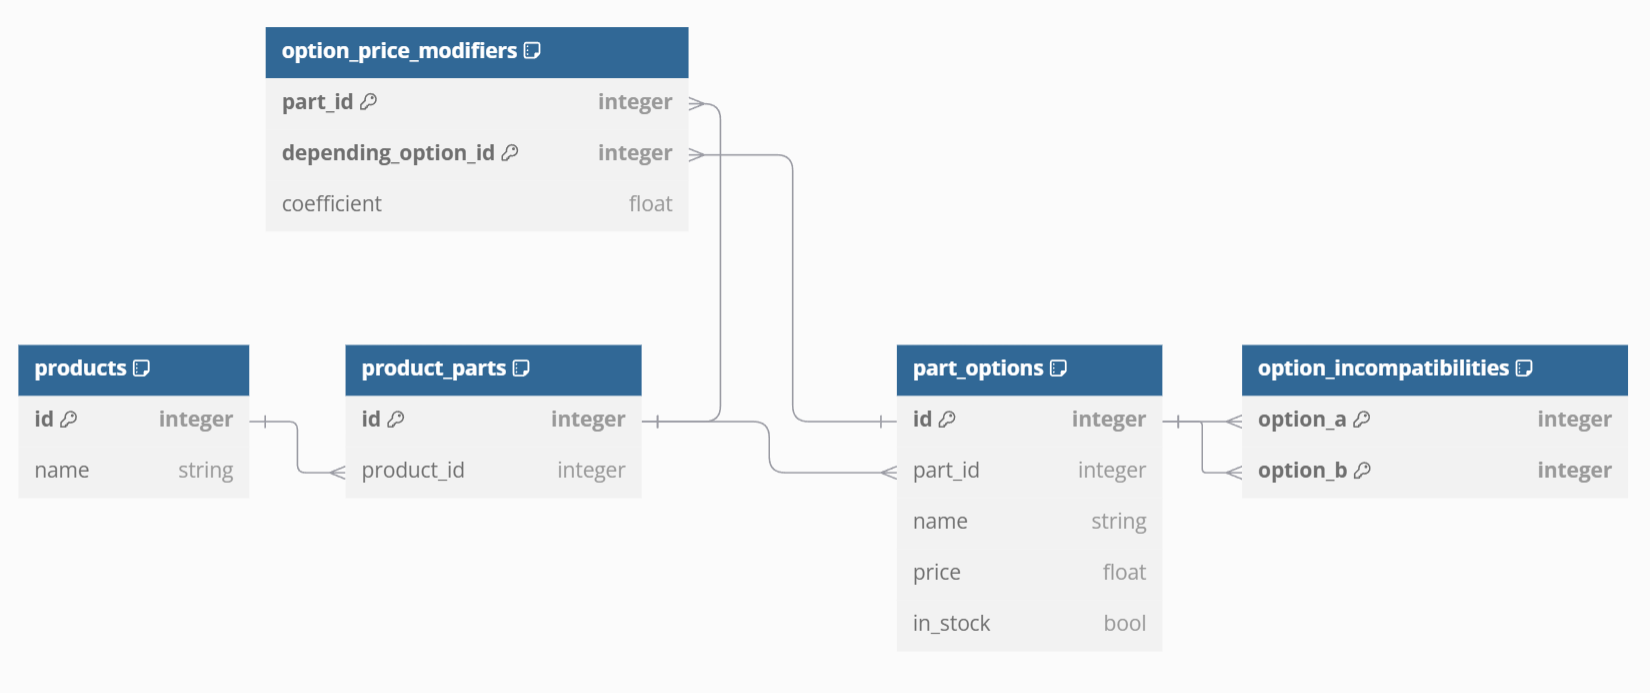
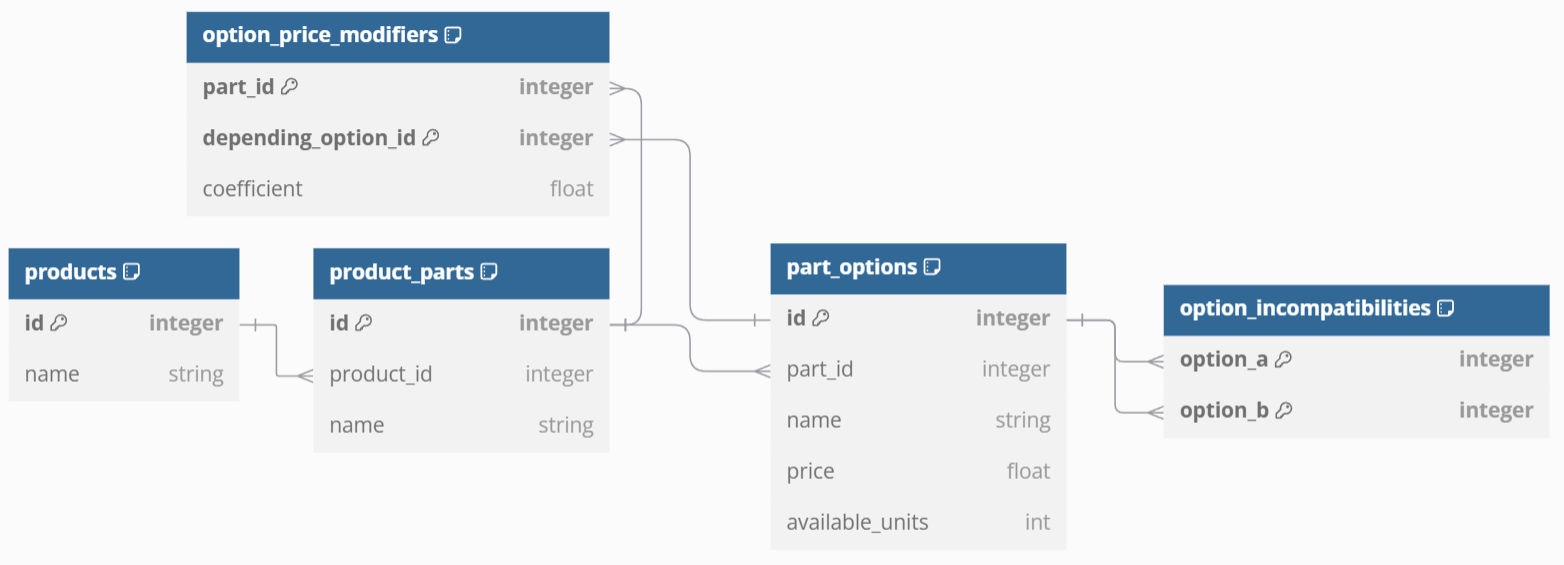
feat: Added PartOption.available_units

diff --git a/test/unit/mock_part_option_repository.py b/test/unit/mock_part_option_repository.py
@@ -1,7 +1,7 @@
 from typing import Iterable, Optional
 
 from catalog.domain import Money, Name, PartOption, PartOptionId, \
-    PartOptionRepository, ProductPartId
+    PartOptionRepository, ProductPartId, Units
 
 
 class MockPartOptionRepository(PartOptionRepository):
@@ -11,79 +11,79 @@ class MockPartOptionRepository(PartOptionRepository):
             ProductPartId(1),
             Name('Full-suspension'),
             Money(130),
-            True),
+            Units(10)),
         PartOption(
             PartOptionId(2),
             ProductPartId(1),
             Name('Diamond'),
             Money(100),
-            True),
+            Units(7)),
         PartOption(
             PartOptionId(3),
             ProductPartId(1),
             Name('Step-through'),
             Money(90),
-            True),
+            Units(3)),
         PartOption(
             PartOptionId(4),
             ProductPartId(2),
             Name('Matte'),
             Money(50),
-            True),
+            Units(5)),
         PartOption(
             PartOptionId(5),
             ProductPartId(2),
             Name('Shiny'),
             Money(30),
-            True),
+            Units(7)),
         PartOption(
             PartOptionId(6),
             ProductPartId(3),
             Name('Road wheels'),
             Money(80),
-            True),
+            Units(24)),
         PartOption(
             PartOptionId(7),
             ProductPartId(3),
             Name('Mountain wheels'),
             Money(90),
-            True),
+            Units(1)),
         PartOption(
             PartOptionId(8),
             ProductPartId(3),
             Name('Fat bike wheels'),
             Money(100),
-            True),
+            Units(15)),
         PartOption(
             PartOptionId(9),
             ProductPartId(4),
             Name('Red'),
             Money(20),
-            True),
+            Units(20)),
         PartOption(
             PartOptionId(10),
             ProductPartId(4),
             Name('Black'),
             Money(25),
-            True),
+            Units(32)),
         PartOption(
             PartOptionId(11),
             ProductPartId(4),
             Name('Blue'),
             Money(20),
-            True),
+            Units(11)),
         PartOption(
             PartOptionId(12),
             ProductPartId(5),
             Name('Single-speed chain'),
             Money(43),
-            True),
+            Units(6)),
         PartOption(
             PartOptionId(13),
             ProductPartId(5),
             Name('8-speed chain'),
             Money(90),
-            False),
+            Units(0)),
     ]
 
     def list(
@@ -104,8 +104,8 @@ class MockPartOptionRepository(PartOptionRepository):
             self,
             part_id: ProductPartId,
             name: Name,
-            price: float,
-            in_stock: bool) -> PartOption:
+            price: Money,
+            available_units: Units) -> PartOption:
         raise NotImplementedError()
 
     def list_incompatibilities(

diff --git a/catalog/infrastructure/init_part_option_repository.py b/catalog/infrastructure/init_part_option_repository.py
@@ -1,22 +1,22 @@
-from catalog.domain import Name, PartOptionId, ProductPartId
+from catalog.domain import Money, Name, PartOptionId, ProductPartId, Units
 from catalog.infrastructure import SqlAlchemyPartOptionRepository
 
 
 def init_part_option_repository(repo: SqlAlchemyPartOptionRepository) -> None:
     options = [
-        (ProductPartId(1), Name('Full-suspension'), 130, True),
-        (ProductPartId(1), Name('Diamond'), 100, True),
-        (ProductPartId(1), Name('Step-through'), 90, True),
-        (ProductPartId(2), Name('Matte'), 50, True),
-        (ProductPartId(2), Name('Shiny'), 30, True),
-        (ProductPartId(3), Name('Road wheels'), 80, True),
-        (ProductPartId(3), Name('Mountain wheels'), 90, True),
-        (ProductPartId(3), Name('Fat bike wheels'), 100, True),
-        (ProductPartId(4), Name('Red'), 20, True),
-        (ProductPartId(4), Name('Black'), 25, True),
-        (ProductPartId(4), Name('Blue'), 20, True),
-        (ProductPartId(5), Name('Single-speed chain'), 43, True),
-        (ProductPartId(5), Name('8-speed chain'), 90, False),
+        (ProductPartId(1), Name('Full-suspension'), Money(130), Units(10)),
+        (ProductPartId(1), Name('Diamond'), Money(100), Units(7)),
+        (ProductPartId(1), Name('Step-through'), Money(90), Units(3)),
+        (ProductPartId(2), Name('Matte'), Money(50), Units(5)),
+        (ProductPartId(2), Name('Shiny'), Money(30), Units(7)),
+        (ProductPartId(3), Name('Road wheels'), Money(80), Units(24)),
+        (ProductPartId(3), Name('Mountain wheels'), Money(90), Units(1)),
+        (ProductPartId(3), Name('Fat bike wheels'), Money(100), Units(15)),
+        (ProductPartId(4), Name('Red'), Money(20), Units(20)),
+        (ProductPartId(4), Name('Black'), Money(25), Units(32)),
+        (ProductPartId(4), Name('Blue'), Money(20), Units(11)),
+        (ProductPartId(5), Name('Single-speed chain'), Money(43), Units(6)),
+        (ProductPartId(5), Name('8-speed chain'), Money(90), Units(0)),
     ]
     incompatibilities = [
         (PartOptionId(2), PartOptionId(7)),

diff --git a/catalog/infrastructure/sqlalchemy_part_option_repository.py b/catalog/infrastructure/sqlalchemy_part_option_repository.py
@@ -4,7 +4,7 @@ from sqlalchemy import  select
 from sqlalchemy.orm import Mapped, mapped_column
 
 from catalog.domain import Money, Name, PartOption, PartOptionId, \
-    PartOptionRepository, ProductPartId
+    PartOptionRepository, ProductPartId, Units
 from .sqlalchemy_base import SqlAlchemyBase
 from .sqlalchemy_base_repository import SqlAlchemyBaseRepository
 
@@ -15,7 +15,7 @@ class PartOptionModel(SqlAlchemyBase):
     part_id: Mapped[int]
     name: Mapped[str]
     price: Mapped[float]
-    in_stock: Mapped[bool]
+    available_units: Mapped[int]
 
 
 class OptionIncompatibilityModel(SqlAlchemyBase):
@@ -50,19 +50,19 @@ class SqlAlchemyPartOptionRepository(PartOptionRepository, SqlAlchemyBaseReposit
             part_id=ProductPartId(result.part_id),
             name=Name(result.name),
             price=Money(result.price),
-            in_stock=result.in_stock) if result else None
+            available_units=Units(result.available_units)) if result else None
 
     def create(
             self,
             part_id: ProductPartId,
             name: Name,
-            price: float,
-            in_stock: bool) -> PartOption:
+            price: Money,
+            available_units: Units) -> PartOption:
         model = PartOptionModel(
             part_id=int(part_id),
             name=str(name),
             price=float(price),
-            in_stock=in_stock)
+            available_units=int(available_units))
         self._session.add(model)
         self._session.flush()
         return PartOption(
@@ -70,7 +70,7 @@ class SqlAlchemyPartOptionRepository(PartOptionRepository, SqlAlchemyBaseReposit
             part_id=ProductPartId(model.part_id),
             name=Name(model.name),
             price=Money(model.price),
-            in_stock=model.in_stock)
+            available_units=Units(model.available_units))
 
     def list_incompatibilities(
             self, id_: PartOptionId) -> Iterable[PartOptionId]:

diff --git a/catalog/infrastructure/schemas.py b/catalog/infrastructure/schemas.py
@@ -1,5 +1,5 @@
 from catalog.domain import Money, Name, PartOption, PartOptionId, \
-    Product, ProductId, ProductPart, ProductPartId
+    Product, ProductId, ProductPart, ProductPartId, Units
 
 from marshmallow import Schema, fields, post_load
 
@@ -30,7 +30,7 @@ class PartOptionSchema(Schema):
     part_id = fields.Int()
     name = fields.Str()
     price = fields.Float()
-    in_stock = fields.Bool()
+    available_units = fields.Int()
 
     @post_load
     def load_part_option(self, data, **_) -> PartOption:
@@ -39,4 +39,4 @@ class PartOptionSchema(Schema):
             part_id=ProductPartId(data['part_id']),
             name=Name(data['name']),
             price=Money(data['price']),
-            in_stock=data['in_stock'])
+            available_units=Units(data['available_units']))

diff --git a/test/unit/test_units.py b/test/unit/test_units.py
@@ -1,0 +1,21 @@
+from unittest import TestCase
+
+from catalog.domain import Units
+
+class TestUnits(TestCase):
+  def test_units_can_be_added(self):
+    self.assertEqual(Units(10), Units(6) + Units(4))
+
+  def test_units_can_be_subtracted(self):
+    self.assertEqual(Units(2), Units(6) - Units(4))
+
+  def test_units_can_be_converted_to_int(self):
+    self.assertEqual(5, int(Units(5)))
+  
+  def test_units_can_be_converted_to_str(self):
+    self.assertEqual('5', str(Units(5)))
+
+  def test_units_cannot_be_negative(self):
+    with self.assertRaises(ValueError) as context:
+      Units(-1)
+    self.assertEqual('Units must not be negative', str(context.exception))

diff --git a/catalog/domain/part_option_repository.py b/catalog/domain/part_option_repository.py
@@ -1,9 +1,11 @@
 from abc import ABC, abstractmethod
 from typing import Iterable, Optional
 
+from .money import Money
 from .name import Name
 from .part_option import PartOption, PartOptionId
 from .product_part import ProductPartId
+from .units import Units
 
 class PartOptionRepository(ABC):
     @abstractmethod
@@ -21,8 +23,8 @@ class PartOptionRepository(ABC):
             self,
             part_id: ProductPartId,
             name: Name,
-            price: float,
-            in_stock: bool) -> PartOption:
+            price: Money,
+            available_units: Units) -> PartOption:
         pass
 
     @abstractmethod

diff --git a/catalog/domain/units.py b/catalog/domain/units.py
@@ -1,0 +1,21 @@
+from dataclasses import dataclass
+
+@dataclass(frozen=True)
+class Units:
+  units: int
+
+  def __post_init__(self):
+    if self.units < 0:
+      raise ValueError('Units must not be negative')
+  
+  def __add__(self, other: 'Units') -> 'Units':
+    return Units(self.units + other.units)
+  
+  def __sub__(self, other: 'Units') -> 'Units':
+    return Units(self.units - other.units)
+  
+  def __int__(self) -> int:
+    return int(self.units)
+  
+  def __str__(self) -> str:
+    return str(self.units)

diff --git a/catalog/domain/part_option.py b/catalog/domain/part_option.py
@@ -4,6 +4,7 @@ from .name import Name
 from .model_id import ModelId
 from .money import Money
 from .product_part import ProductPartId
+from .units import Units
 
 class PartOptionId(ModelId):
     pass
@@ -15,4 +16,8 @@ class PartOption:
     part_id: ProductPartId
     name: Name
     price: Money
-    in_stock: bool
+    available_units: Units
+
+    @property
+    def in_stock(self) -> bool:
+        return int(self.available_units) > 0

diff --git a/catalog/domain/__init__.py b/catalog/domain/__init__.py
@@ -6,6 +6,7 @@ from .product import Product, ProductId
 from .product_part import ProductPart, ProductPartId
 from .product_part_repository import ProductPartRepository
 from .product_repository import ProductRepository
+from .units import Units
 
 __all__ = [
     'Money',
@@ -19,4 +20,5 @@ __all__ = [
     'ProductPartId',
     'ProductPartRepository',
     'ProductRepository',
+    'Units',
 ]

diff --git a/cli_app/cli.py b/cli_app/cli.py
@@ -20,7 +20,7 @@ def print_welcome_message(url: Optional[str]) -> None:
     Prints a welcome message, indicating if running in monolithic mode
     (with the backend bundled in the application) or against a server.
     """
-    print('Welcome to Markus Sports Equipment Store!')
+    print('Welcome to Marcus Sports Equipment Store!')
     if url:
         print(f'Running on {url}')
     else:

diff --git a/server.py b/server.py
@@ -1,5 +1,5 @@
 """
-Markus Sports Equipment Store - Simple web server
+Marcus Sports Equipment Store - Simple web server
 =================================================
 
 Please check README.md or the header of main.py file

diff --git a/main.py b/main.py
@@ -1,5 +1,5 @@
 """
-Markus Sports Equipment Store - Main program
+Marcus Sports Equipment Store - Main program
 ============================================
 
 App usage:
